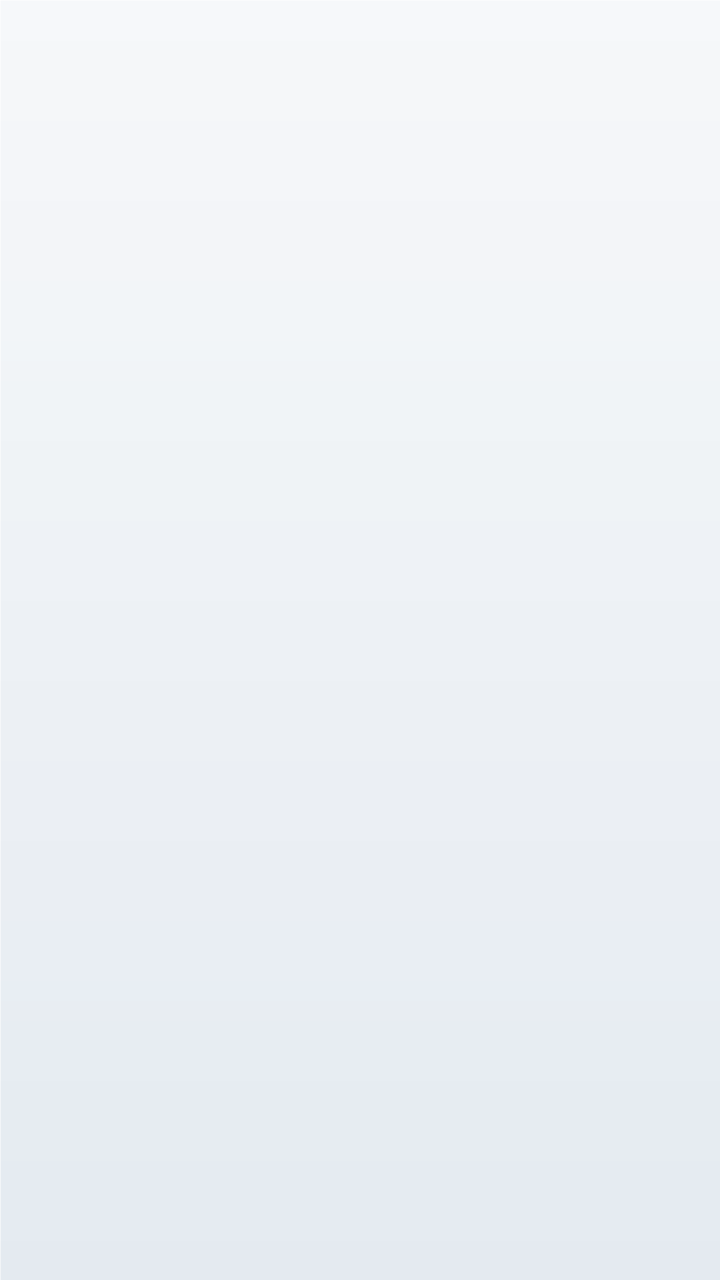
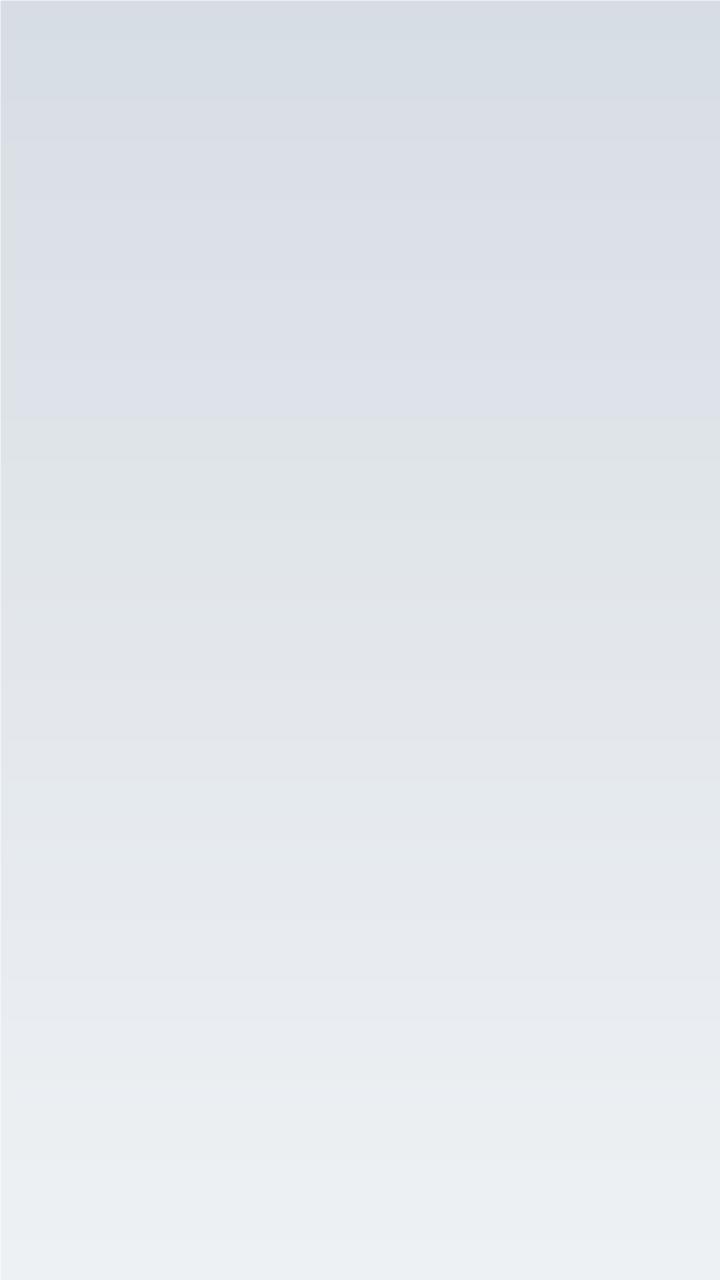
Android: fix the themed home screen's jank, and pull the light skins apart
Took a screenshot of the running app instead of guessing, which is how all of this
was found.

  - The connect card kept the app's dark styling on a light skin: a charcoal panel
    on a the clamshell skin's white field, which reads as one part of the app having failed to
    notice the theme. It now takes the skin's own tile colours, and so do its
    buttons -- Detect was a dark slab with dark text on it.
  - The game name came out nearly invisible. A Spinner rebuilds its selected view
    whenever the selection is set, and applyMode() does that later in the same
    pass, throwing the colour away; it is now reapplied once the queue drains.
  - The status strip sat between the card and the tiles, where it read as a stray
    line of text. It goes at the very top.
  - Empty slots were 56dp against ~88dp tiles, so rows stepped down half way
    through. They match now.
  - The tray had no edge and floated in a white band.

And the light skins were four shades of white after the last pass flattened them.
The a clamshell handheld keeps neutral grey, the the tablet skin is warm, the the channel skin is cool blue, the the silver skin
is properly silver -- in both the palette and the artwork.

Changed region(s): [[0.0, 0.0, 1.0, 0.1562]]

diff --git a/android/app/src/main/java/com/abacus/dualscreen/HomeActivity.kt b/android/app/src/main/java/com/abacus/dualscreen/HomeActivity.kt
@@ -354,7 +354,9 @@ class HomeActivity : AppCompatActivity() {
             for (slot in com.abacus.dualscreen.theme.ConsoleSkin.slotFillers(this, skin, tools.size)) {
                 binding.toolGrid.addView(slot, GridLayout.LayoutParams().apply {
                     width = 0
-                    height = dp(56)
+                    // Same height as a real tile, so the empty places line up with the filled ones
+                    // instead of stepping down half way through a row.
+                    height = dp(88)
                     columnSpec = GridLayout.spec(GridLayout.UNDEFINED, 1f)
                     setMargins(dp(3), dp(3), dp(3), dp(3))
                 })
@@ -394,9 +396,29 @@ class HomeActivity : AppCompatActivity() {
 
             val keep = child === binding.toolGrid ||
                 child === connectCard ||
-                child.tag == STATUS_BAR_TAG
+                child.tag == STATUS_BAR_TAG ||
+                child.tag == TRAY_TAG
 
             child.visibility = if (!skinned || keep) View.VISIBLE else View.GONE
+        }
+
+        /*
+         * Repaint the connect card in the skin's colours.
+         *
+         * Left alone it keeps the app's dark card style, and a charcoal panel sitting on a 3DS's
+         * white field is the single most jarring thing on the themed home screen — it reads as a
+         * bug, because it looks like one part of the app failed to notice the theme.
+         */
+        val skin = com.abacus.dualscreen.theme.ThemeStore(this).byId(settings.consoleTheme)
+        if (skinned && connectCard != null) {
+            connectCard.background = com.abacus.dualscreen.theme.ConsoleSkin.tileFace(this, skin)
+            recolourText(connectCard, skin.tileLabel, skin.tileGlyph)
+
+            // Again after the queue drains. The spinner rebuilds its selected view whenever the
+            // selection is set, and applyMode() does exactly that later in the same pass -- which
+            // threw away the colour set here and left the game name almost invisible on a white
+            // card.
+            connectCard.post { recolourText(connectCard, skin.tileLabel, skin.tileGlyph) }
         }
 
         // The scroller's own padding frames the app's cards; a console menu wants the grid to run
@@ -429,7 +451,7 @@ class HomeActivity : AppCompatActivity() {
             orientation = LinearLayout.HORIZONTAL
             gravity = Gravity.CENTER
             setBackgroundColor(skin.trayBackground)
-            setPadding(dp(8), dp(8), dp(8), dp(8))
+            setPadding(dp(8), dp(10), dp(8), dp(10))
             tag = TRAY_TAG
             layoutParams = LinearLayout.LayoutParams(
                 ViewGroup.LayoutParams.MATCH_PARENT,
@@ -458,6 +480,15 @@ class HomeActivity : AppCompatActivity() {
             })
         }
 
+        // A hairline above it, so the strip reads as an edge of the screen rather than as a band
+        // of colour that happens to be sitting there.
+        parent.addView(View(this).apply {
+            setBackgroundColor(skin.tileBorder.takeIf { it != 0 } ?: skin.trayIcon)
+            alpha = 0.4f
+            tag = TRAY_TAG
+            layoutParams = LinearLayout.LayoutParams(ViewGroup.LayoutParams.MATCH_PARENT, dp(1))
+        })
+
         parent.addView(tray)
     }
 
@@ -479,6 +510,43 @@ class HomeActivity : AppCompatActivity() {
                 pass = settings.ftpPassword,
                 wholeDevice = settings.ftpWholeDevice,
             )
+        }
+    }
+
+    /**
+     * Walk a view tree and recolour its text to suit a skin.
+     *
+     * Labels take the strong colour, hints and captions the softer one — anything already dimmed by
+     * the app's own styling stays relatively dimmer, so the hierarchy survives the repaint instead
+     * of flattening into one colour.
+     */
+    private fun recolourText(view: View, strong: Int, soft: Int) {
+        when (view) {
+            /*
+             * Buttons need their background replaced, not just their text.
+             *
+             * They carry the app's own accentFill drawable, so on a light skin a dark slab with
+             * dark text sat in the middle of a white card — unreadable, and the most obviously
+             * broken thing left on screen once the card itself was fixed.
+             */
+            is Button -> {
+                val skin = com.abacus.dualscreen.theme.ThemeStore(this).byId(settings.consoleTheme)
+                view.background = com.abacus.dualscreen.theme.ConsoleSkin.tileFace(this, skin)
+                view.setTextColor(strong)
+            }
+
+            // A Spinner draws its selection through a child TextView, so recolouring the Spinner
+            // itself did nothing and the game name came out almost invisible on a white card.
+            is android.widget.Spinner ->
+                for (i in 0 until view.childCount) recolourText(view.getChildAt(i), strong, soft)
+
+            is TextView -> {
+                val faint = view.alpha < 1f ||
+                    view.textSize < 13 * resources.displayMetrics.scaledDensity
+                view.setTextColor(if (faint) soft else strong)
+            }
+
+            is ViewGroup -> for (i in 0 until view.childCount) recolourText(view.getChildAt(i), strong, soft)
         }
     }
 
@@ -521,10 +589,10 @@ class HomeActivity : AppCompatActivity() {
             ViewGroup.LayoutParams.WRAP_CONTENT,
         )
 
-        val at = parent.indexOfChild(binding.toolGrid)
-        parent.addView(bar, if (at >= 0) at else 0)
+        // Top of the screen, not above the grid. A console status strip belongs at the very top --
+        // tucked between the connect card and the tiles it read as a stray line of text.
+        parent.addView(bar, 0)
 
-        android.util.Log.i("AynSkin", "status bar added for ${skin.id} at index $at of ${parent.childCount}")
     }
 
     /**

diff --git a/android/app/src/main/java/com/abacus/dualscreen/theme/ConsoleTheme.kt b/android/app/src/main/java/com/abacus/dualscreen/theme/ConsoleTheme.kt
@@ -266,8 +266,9 @@ data class ConsoleTheme(
             id = "dslite",
             name = "Nintendo DS Lite",
             subtitle = "DS Menu",
-            background = 0xFFEDF1F5.toInt(),
-            slotColor = 0xFFDDE5EC.toInt(),
+            background = 0xFFD9DEE4.toInt(),
+            backgroundEnd = 0xFFEFF2F5.toInt(),
+            slotColor = 0xFFC6CDD6.toInt(),
             statusBackground = 0,
             statusText = 0xFF32404E.toInt(),
             statusPill = 0,
@@ -297,9 +298,9 @@ data class ConsoleTheme(
             id = "wiiu",
             name = "Nintendo Wii U",
             subtitle = "GamePad menu",
-            background = 0xFFF4F4F4.toInt(),
-            backgroundEnd = 0xFFFFFFFF.toInt(),
-            slotColor = 0xFFE8E8E8.toInt(),
+            background = 0xFFFDFBF6.toInt(),
+            backgroundEnd = 0xFFF2EFE8.toInt(),
+            slotColor = 0xFFE7E2D7.toInt(),
             statusBackground = 0xFFFAFAFA.toInt(),
             statusText = 0xFF444444.toInt(),
             statusPill = 0,
@@ -333,9 +334,9 @@ data class ConsoleTheme(
             id = "wii",
             name = "Nintendo Wii",
             subtitle = "Channel menu",
-            background = 0xFFFFFFFF.toInt(),
-            backgroundEnd = 0xFFEFF3F6.toInt(),
-            slotColor = 0xFFE9EDEF.toInt(),
+            background = 0xFFE3EEF7.toInt(),
+            backgroundEnd = 0xFFF7FBFD.toInt(),
+            slotColor = 0xFFD2E1EE.toInt(),
             statusBackground = 0xFFF7F9FA.toInt(),
             statusText = 0xFF46545F.toInt(),
             statusPill = 0,

diff --git a/android/app/src/main/java/com/abacus/dualscreen/Tool.kt b/android/app/src/main/java/com/abacus/dualscreen/Tool.kt
@@ -22,7 +22,10 @@ enum class Tool(
     BRIGHTNESS("brightness", R.string.tool_brightness, "☀"),
     APPEARANCE("appearance", R.string.tool_appearance, "◈"),
     KEYBOARD("keyboard", R.string.tool_keyboard, "⌨"),
-    MIRROR("mirror", R.string.tool_mirror, "⧉"),
+    // Third attempt at this glyph. ⧉, ▥ and ◨ all drew as tofu on the test device; ◐ renders
+    // (Themes uses it), so its neighbour ◑ is the safe pick. Worth checking on a real device
+    // rather than trusting a font to have anything outside the common blocks.
+    MIRROR("mirror", R.string.tool_mirror, "◎"),
 
     // The pad itself is on-device. Its text and key macros go out through this app's own keyboard, which
     // is as far as Android lets one app reach into another without a signature-level permission.
